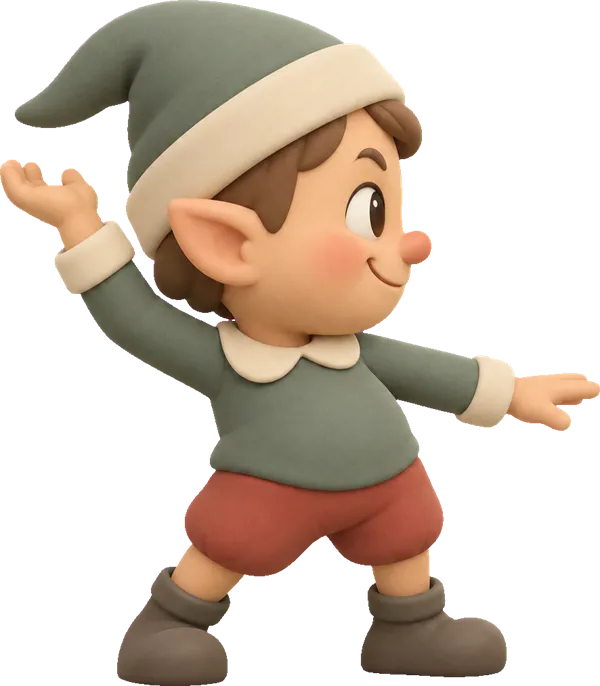
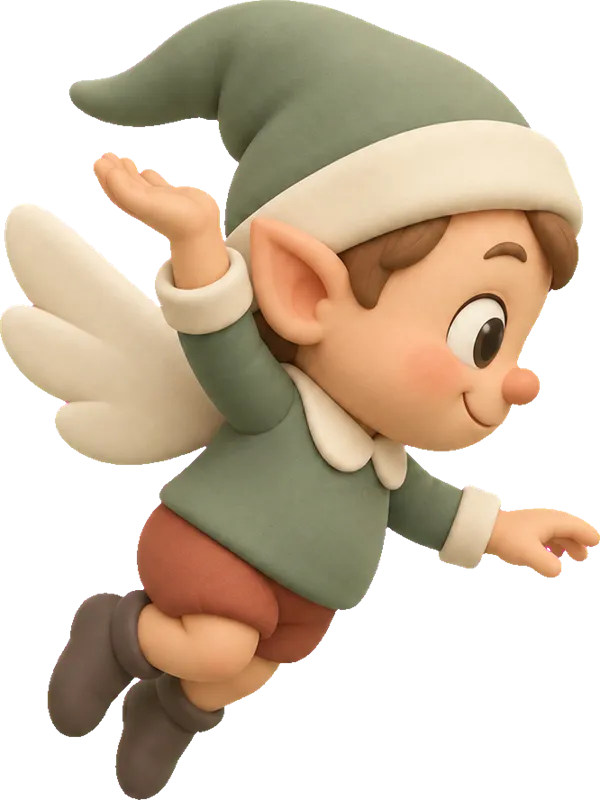
遊戲10 小精靈改成長翅膀飛在空中、從頭頂垂直空投炸蛋
爸爸說「我以為你的小精靈會在空中飛，空投炸彈」——原本做成站在屋頂上丟弧線。

- CH601／CH602 重生成飛行姿態（一對小翅膀，兩格交替＝振翅；舉高／甩手投出）
- 小精靈從側邊飛進來，追到聖誕老人正上方懸停，把炸蛋舉高（手上看得到那顆蛋）
  再垂直空投；炸蛋只有很小的左右飄、越掉越快，所以是靠走位閃而不是碰運氣
- 投完換位置再投一顆，兩顆之後自己飛走；揮擲會把牠打得翻著飛出畫面
- 接到炸蛋仍然是轉兩大圈的好笑獎勵，袋子與進度完全不受影響

diff --git a/遊戲10-聖誕老人/index.html b/遊戲10-聖誕老人/index.html
@@ -402,6 +402,7 @@ const LAY = {
   baseTop:   0.920,  // 建築基座收邊（街道層已移除）
   giftH:     0.062,
 };
+const ELF_Y = 0.315;                      // 小精靈飛的高度：在聖誕老人頭上、雪橇下面
 const WALK_MIN = 0.16, WALK_MAX = 0.86;   // 屋頂可走位範圍（雪橇不再長期占住左側）
 
 // 兩戶住家：前兩段只有一戶，第三段起變兩戶
@@ -770,9 +771,9 @@ function maybeStartEvent() {
     state.event = { kind: 'bird', phase: 'carry', t: 0 };
     sfxChirp(); say('s25', { priority: 2 }); setTimeout(() => say('s26', { priority: 2 }), 900);
   } else {
-    // 搗亂小精靈：站在離聖誕老人比較遠的那一側，朝他丟炸蛋
-    const side = state.santaX > 0.5 ? WALK_MIN - 0.06 : WALK_MAX + 0.06;
-    state.event = { kind: 'elf', phase: 'wind', t: 0, x: side, thrown: 0 };
+    // 搗亂小精靈：長了一對小翅膀，從側邊飛進來、飛到聖誕老人上方空投炸蛋
+    const side = state.santaX > 0.5 ? -0.10 : 1.10;
+    state.event = { kind: 'elf', phase: 'fly', t: 0, x: side, y: ELF_Y, want: state.santaX, thrown: 0, flap: 0 };
     sfxStomp(); say('s13', { priority: 2 }); setTimeout(() => say('s14', { priority: 2 }), 1000);
   }
 }
@@ -1031,10 +1032,9 @@ function update(dt, now) {
     const eg = state.eggs[i];
     eg.t += dt;
     const k = clamp01(eg.t / eg.dur);
-    eg.cx = (eg.x0 + (eg.x1 - eg.x0) * k) * W;
-    eg.cy = (roofTopY() - LAY.santaH * H * 0.75) + (sackMouthY() - (roofTopY() - LAY.santaH * H * 0.75)) * k
-            - Math.sin(Math.PI * k) * H * 0.10;
-    eg.rot = k * 6;
+    eg.cx = (eg.x0 + eg.drift * k) * W;
+    eg.cy = eg.y0 * H + (sackMouthY() - eg.y0 * H) * (k * k);     // 越掉越快
+    eg.rot = k * 5;
     if (k >= 1) {
       state.eggs.splice(i, 1);
       if (Math.abs(eg.cx - sackX()) < W * 0.075) eggCaught();
@@ -1057,13 +1057,21 @@ function update(dt, now) {
       if (e.phase === 'carry' && e.t > 7) { e.phase = 'leave'; e.t = 0; }
       else if (e.phase === 'leave' && e.t > 1.1) state.event = null;
     } else if (e.kind === 'elf') {
-      // 預備 → 丟蛋 → 稍等 → 再丟一顆 → 自己跺腳走人（不趕也不會卡住）
-      if (e.phase === 'wind' && e.t > 0.55) { throwEgg(e); e.phase = 'wait'; e.t = 0; }
-      else if (e.phase === 'wait' && e.t > 2.4) {
-        if (e.thrown >= 2) { e.phase = 'leave'; e.t = 0; sfxStomp(); }
-        else { e.phase = 'wind'; e.t = 0; }
+      e.flap += dt * 9;
+      // 飛到目標上方 → 停一下把炸蛋舉高 → 空投 → 換位置再投一次 → 自己飛走
+      if (e.phase === 'fly') {
+        e.want = Math.max(WALK_MIN, Math.min(WALK_MAX, state.santaX));
+        const d = e.want - e.x;
+        e.x += Math.sign(d) * Math.min(Math.abs(d), 0.42 * dt);
+        if (Math.abs(d) < 0.02) { e.phase = 'wind'; e.t = 0; }
+        else if (e.t > 3.5) { e.phase = 'wind'; e.t = 0; }        // 追不到也會投，不會一直繞
       }
-      else if (e.phase === 'leave' && e.t > 1.0) state.event = null;
+      else if (e.phase === 'wind' && e.t > 0.6) { dropEgg(e); e.phase = 'wait'; e.t = 0; }
+      else if (e.phase === 'wait' && e.t > 1.6) {
+        if (e.thrown >= 2) { e.phase = 'leave'; e.t = 0; sfxStomp(); }
+        else { e.phase = 'fly'; e.t = 0; }
+      }
+      else if (e.phase === 'leave' && e.t > 1.2) state.event = null;
     } else if (e.kind === 'blanket') {
       if (e.phase === 'block' && e.t > ASSIST_AFTER + 2) { e.phase = 'lift'; e.t = 0; }
       else if (e.phase === 'duck' && e.t > 0.9) { e.phase = 'lift'; e.t = 0; }
@@ -1095,10 +1103,10 @@ function update(dt, now) {
   }
 }
 
-function throwEgg(e) {
+// 空投：炸蛋從小精靈腳下垂直掉下來（只有很小的左右飄），玩家靠走位閃
+function dropEgg(e) {
   e.thrown++;
-  state.eggs.push({ x: e.x, y: roofTopY() - LAY.santaH * H * 0.75, t: 0, dur: 1.5,
-                    x0: e.x, x1: state.santaX + (Math.random() - 0.5) * 0.06, rot: 0 });
+  state.eggs.push({ x0: e.x, y0: e.y + 0.035, t: 0, dur: 1.35, drift: (Math.random() - 0.5) * 0.05, rot: 0 });
   sfxEggFly();
 }
 // 接到炸蛋＝好笑的獎勵，不是懲罰：原地轉一大圈，袋子裡的禮物一件都不會少
@@ -1427,11 +1435,23 @@ function drawEvent(now) {
       picBottom('CH202', sx + W * (0.10 + 0.16 * k), H * (0.20 - 0.06 * k), { h: H * 0.070, rot: -k * 1.2 });
     }
   } else if (e.kind === 'elf') {
-    const id = (e.phase === 'wind' && e.t > 0.25) ? 'CH602' : 'CH601';
+    // 飛行中：兩格交替＝振翅；投蛋那一下固定用出手那格
+    let id = (Math.floor(e.flap) % 2 === 0) ? 'CH601' : 'CH602';
+    if (e.phase === 'wind') id = 'CH601';
+    if (e.phase === 'wait' && e.t < 0.45) id = 'CH602';
     const faceRight = e.x < state.santaX;
-    let dx = 0, dy = 0;
-    if (e.phase === 'leave') { const k = clamp01(e.t / 1.0); dx = (faceRight ? -1 : 1) * W * 0.12 * k; dy = -Math.abs(Math.sin(k * Math.PI)) * H * 0.02; }
-    picBottom(id, e.x * W + dx, roofTopY() + dy, { h: LAY.santaH * H * 0.62, flip: !faceRight });
+    let dx = 0, dy = Math.sin(now / 260) * H * 0.006;
+    let rot = 0;
+    if (e.phase === 'leave') {                       // 被趕走或自己走：翻著飛出畫面
+      const k = clamp01(e.t / 1.2);
+      dx = (faceRight ? -1 : 1) * W * 0.30 * k;
+      dy -= Math.sin(k * Math.PI) * H * 0.05;
+      rot = k * 3;
+    }
+    const eh = LAY.santaH * H * 0.55;
+    pic(id, e.x * W + dx, e.y * H + dy, { h: eh, flip: !faceRight, rot });
+    // 舉高那一格：把待投的炸蛋畫在他手上，看得出「等一下要丟這個」
+    if (e.phase === 'wind') pic('OB001', e.x * W + (faceRight ? -1 : 1) * eh * 0.26, e.y * H + dy - eh * 0.40, { h: LAY.giftH * H * 0.95 });
   } else if (e.kind === 'blanket') {
     let lift = 0;
     if (e.phase === 'duck') lift = clamp01(e.t / 0.9) * 0.4;
@@ -1561,8 +1581,8 @@ requestAnimationFrame(loop);
 
 /* ---- 測試勾子（給開發用，玩家碰不到） ---- */
 window.__elf = () => {
-  const side = state.santaX > 0.5 ? WALK_MIN - 0.06 : WALK_MAX + 0.06;
-  state.event = { kind: 'elf', phase: 'wind', t: 0, x: side, thrown: 0 };
+  const side = state.santaX > 0.5 ? -0.10 : 1.10;
+  state.event = { kind: 'elf', phase: 'fly', t: 0, x: side, y: ELF_Y, want: state.santaX, thrown: 0, flap: 0 };
   sfxStomp(); return window.__dbg();
 };
 window.__art = () => ART_IDS.filter(id => !IMG[id]);

diff --git a/遊戲10-聖誕老人/README.md b/遊戲10-聖誕老人/README.md
@@ -1,7 +1,7 @@
 # 🎅 遊戲10 聖誕老人送禮去
 
 平安夜的深夜，全家都睡了：**麋鹿拉著雪橇在天上飛過，把禮物一件一件放下來 → 在屋頂左右走用大袋子接住 → 接滿四件走到煙囪旁 → 揮手一件一件丟下去 → 禮物滑過煙道，大的放在聖誕樹旁、小的掉進掛著的襪子裡**。
-路上會有**搗亂小精靈朝他丟炸蛋**——接到就原地轉兩大圈（好笑，但一件禮物都不會少）。從頭到尾**沒有人醒來**——兩間房子裡的小朋友只會在夢裡笑一下、翻個身。
+路上會有**長翅膀的搗亂小精靈飛在空中，從頭頂空投炸蛋**——閃開靠走位，接到就原地轉兩大圈（好笑，但一件禮物都不會少）。從頭到尾**沒有人醒來**——兩間房子裡的小朋友只會在夢裡笑一下、翻個身。
 
 | | |
 |---|---|
@@ -13,7 +13,7 @@
 | 站太遠 | 不會失敗：禮物飛一半掉回來、輕輕頂一下肚子，再自己補送進煙囪 |
 | 八段推進 | 每兩袋加一項新東西：禮物盒 → **搗亂小精靈丟炸蛋**（第二段就登場） → 隔壁小朋友家的第二座煙囪 → 大熊卡袋 → 屋頂貓與小精靈 → 晾衣被 → 麻雀與小精靈 → 整條街的回禮。**每一段的第一袋保證出現該段的事件**，第二袋才隨機 |
 | 零挫折 | 沒有分數、扣血、重試或 Game Over。漏接的禮物會彈起來自己進袋；任何一段超過約 5 秒沒動作，畫面就自己慢慢演完 |
-| 搗亂小精靈 | 站在離他較遠那一側丟炸蛋，兩顆之後自己跺腳走人；揮擲可以趕走牠。**接到炸蛋＝轉兩大圈的好笑獎勵**，不扣進度、不清袋子；沒接到就在屋頂上噗一聲洩氣（沒有爆炸、沒有閃光） |
+| 搗亂小精靈 | 有一對小翅膀，飛到聖誕老人正上方懸停、把炸蛋舉高再**垂直空投**（越掉越快，靠走位閃），兩顆之後自己飛走；揮擲會把牠打得翻著飛出畫面。**接到炸蛋＝轉兩大圈的好笑獎勵**，不扣進度、不清袋子；沒接到就在屋頂上噗一聲洩氣（沒有爆炸、沒有閃光） |
 | 結局 | 屋主回送一隻大熊：蹲下讓牠坐上肚子（四腳朝天），揮一下兩個一起彈起來 |
 
 ## 場景
